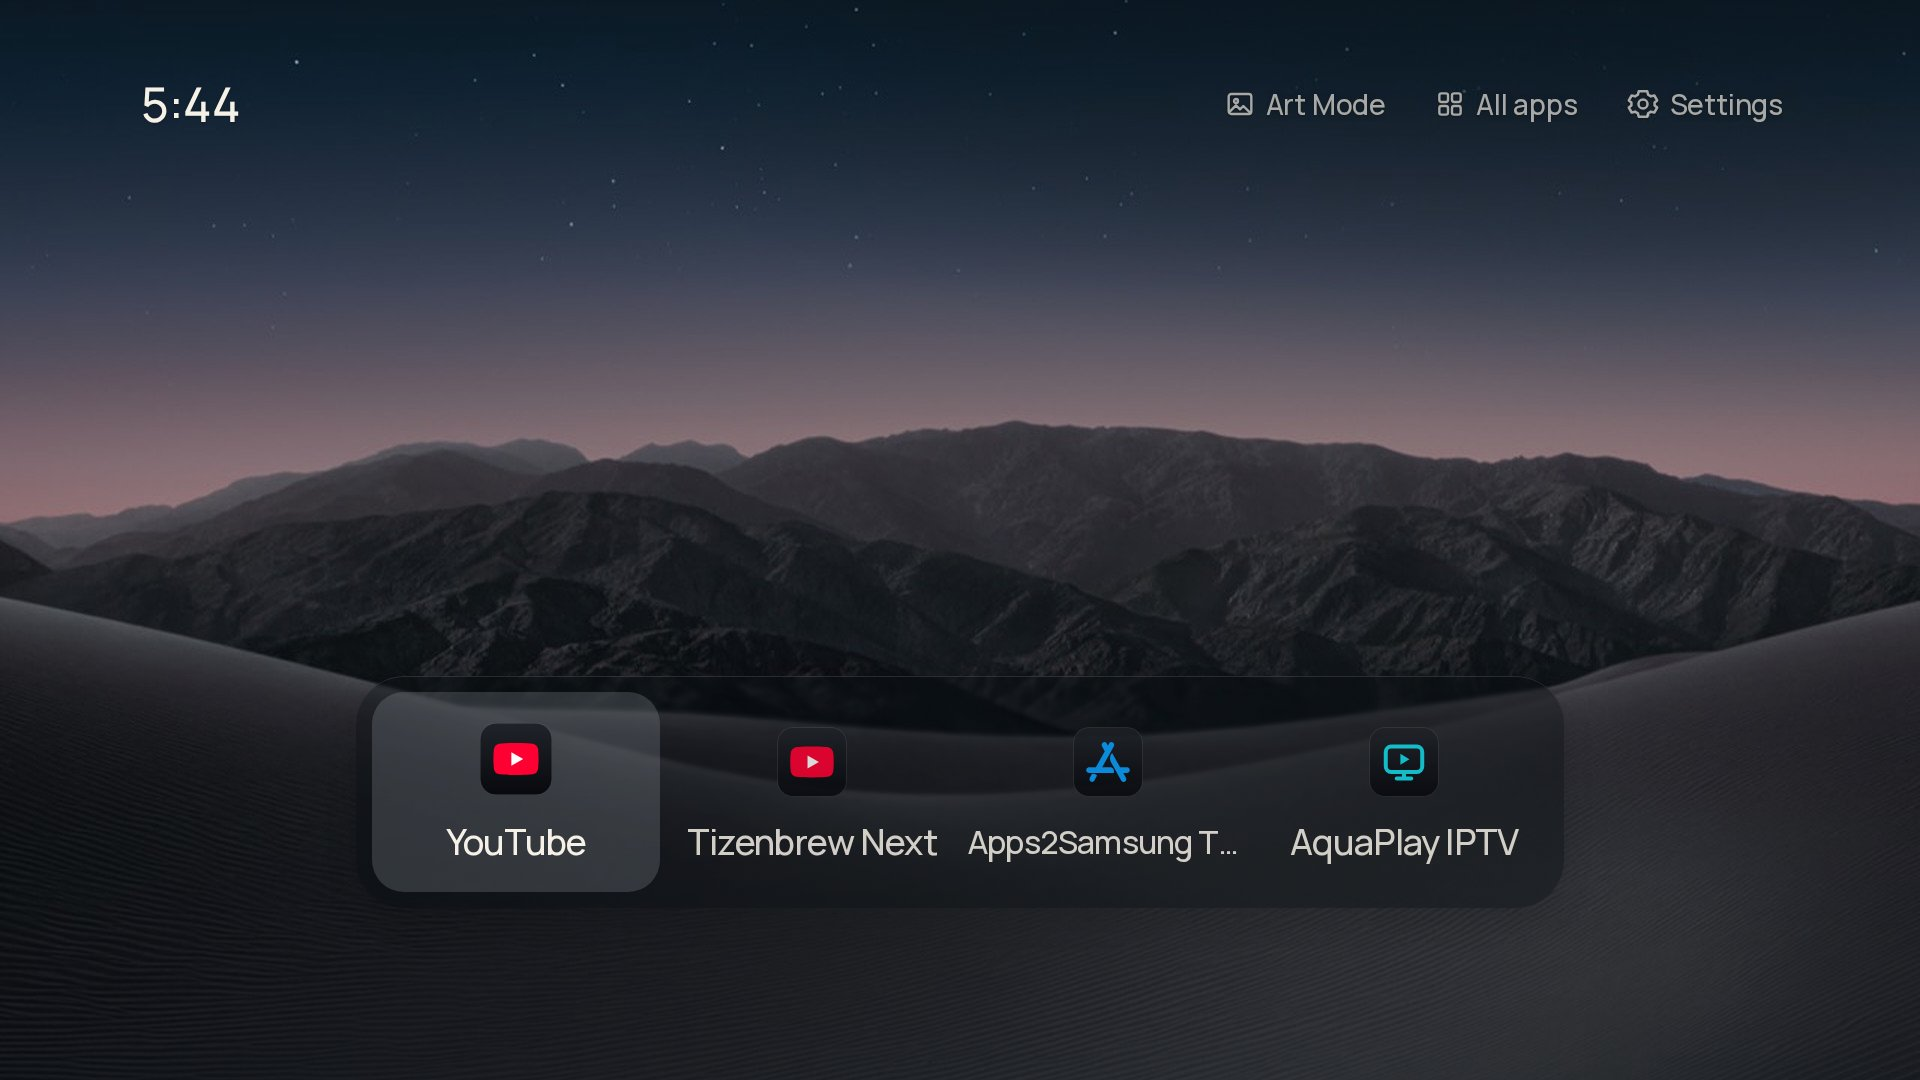
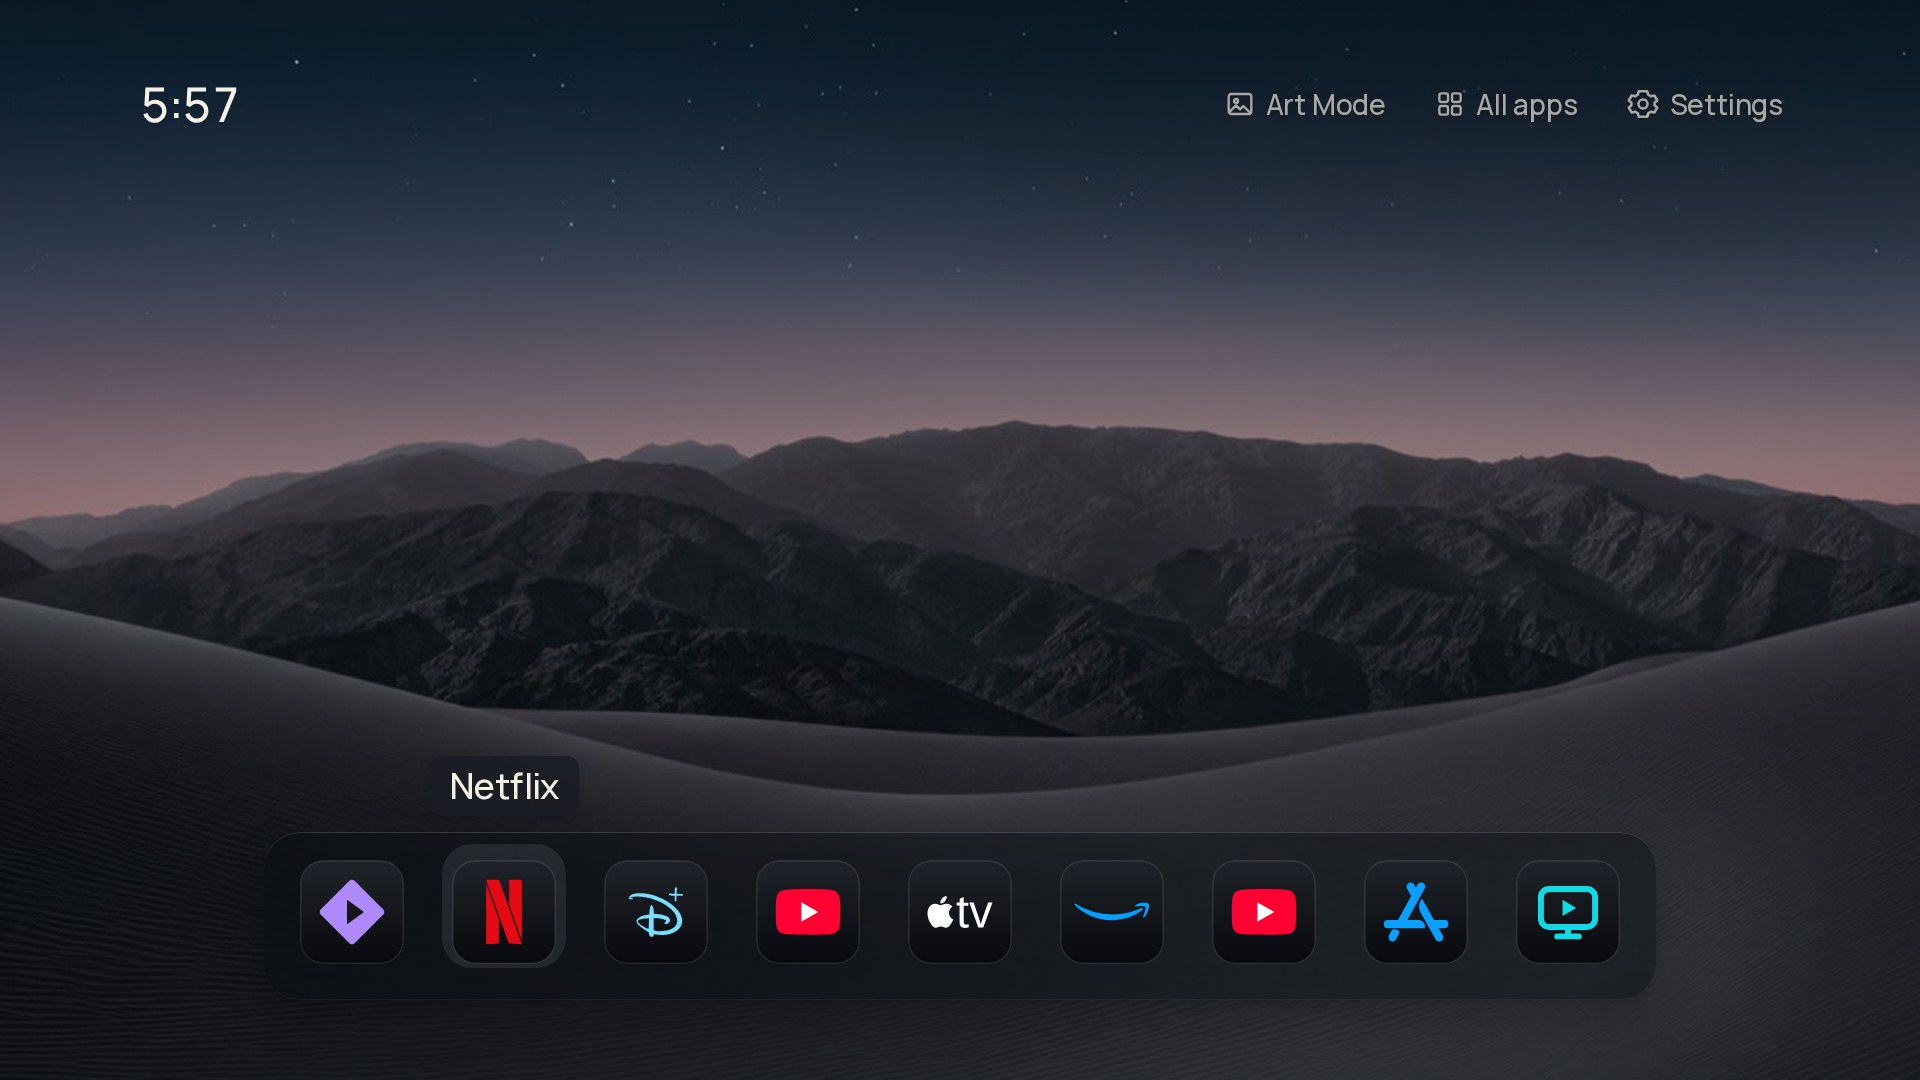
Rework Dock as a compact macOS-inspired floating tray

diff --git a/app/main.js b/app/main.js
@@ -5,7 +5,7 @@
   /* ---------- Bundled data ---------- */
   var ASSETS = 'assets/', ICONS = ASSETS + 'icons/', WP = ASSETS + 'wallpapers/';
   var CAP = 9, SCRIM_Y = 560;
-  var DOCK_MODES = { both: { tw: 288, th: 200, pitch: 296 }, text: { tw: 288, th: 104, pitch: 296 }, icons: { tw: 176, th: 144, pitch: 184 } };
+  var DOCK_MODES = { both: { tw: 176, th: 172, pitch: 184 }, text: { tw: 244, th: 96, pitch: 252 }, icons: { tw: 144, th: 136, pitch: 152 } };
   var GRID_ROW = 240, GRID_COL = 344, COLS = 5;
   var ED_ROW = 80, ED_SEP = 56, ED_VIEW = 752;
   var PH_TOP = 220, PH_PITCH = 128, PH_FULL = 5, PH_HEIGHT = 944, PH_COMPACT_TOP = 144, PH_COMPACT_PITCH = 88, PH_COMPACT_VISIBLE = 9;
@@ -162,7 +162,7 @@
       opsz: serif ? role === 'display' ? 72 : role === 'clock' ? 48 : role === 'ui' && (!size || size === 28) ? 28 : 36 : 0 };
   }
   function measureFace(id, faces) {
-    var result = { roles: {}, digits: [], digitCell: 0 }, roles = { display: [88, 76, 56], clock: [48], primary: [30, 32, 34, 36, 40], ui: [28, 30, 48] };
+    var result = { roles: {}, digits: [], digitCell: 0 }, roles = { display: [88, 76, 56], clock: [48], primary: [24, 28, 30, 32, 34, 36, 40], ui: [28, 30, 48] };
     var face = id === 'newsreader' ? faces[0][0] : null, original = face ? face.variationSettings : '', r, widths, min, max;
     Object.keys(roles).forEach(function (role) {
       result.roles[role] = {};
@@ -274,8 +274,8 @@
     if (fontMetrics[id] && !fontMetrics[id].fallback) widthCache[key] = width;
     return width;
   }
-  function dockLabelSize(id) { return S.c.apps === 'text' ? (textWidth(app(id).name, 40, 600, -.8, 'primary') > 264 ? 34 : 40) : textWidth(app(id).name, 36, 500, -.8, 'primary') > 280 ? 32 : 36; }
-  function reducedDockLabel(id) { return S.c.apps !== 'icons' && dockLabelSize(id) === (S.c.apps === 'text' ? 34 : 32); }
+  function dockLabelSize(id) { return S.c.apps === 'text' ? (textWidth(app(id).name, 36, 600, -.6, 'primary') > 220 ? 30 : 36) : textWidth(app(id).name, 28, 500, -.4, 'primary') > 160 ? 24 : 28; }
+  function reducedDockLabel(id) { return S.c.apps !== 'icons' && dockLabelSize(id) === (S.c.apps === 'text' ? 30 : 24); }
   function actionWidth(text) { return clamp(Math.ceil(textWidth(text, 30, 500, -.3) + 40), 288, 400); }
   function photoLabel(id, compact) {
     var text = app(id).name, size = compact ? 56 : 88, limit = compact ? 640 : 992, width = textWidth(text, size, 600, -1.8, 'display');
@@ -1075,7 +1075,7 @@
   }
   function renderCaption(t, hs) {
     var html = '<span class="clock">' + clockHtml() + '</span>';
-    if (S.c.apps !== 'icons' && hs.items[hs.i] && (S.c.layout === 'list' ? photoLabel(hs.items[hs.i].id, false).size < 88 || photoLabel(hs.items[hs.i].id, false).ellipsis : hs.zone === 'apps' && reducedDockLabel(hs.items[hs.i].id))) html += '<span class="cap-line full-name">' + esc(app(hs.items[hs.i].id).name) + '</span>';
+    if (S.c.layout === 'list' && S.c.apps !== 'icons' && hs.items[hs.i] && (photoLabel(hs.items[hs.i].id, false).size < 88 || photoLabel(hs.items[hs.i].id, false).ellipsis)) html += '<span class="cap-line full-name">' + esc(app(hs.items[hs.i].id).name) + '</span>';
     setHTML(caption, html);
   }
 
@@ -1144,30 +1144,30 @@
     utPlates[utPlateIndex].className = 'ph-plate ut-lens is-current on-focus';
   }
   function renderAppFocusName(hs) {
-    var it = hs.items[hs.i], width, x, y, placement;
-    if (S.c.apps !== 'icons' || hs.mode !== 'browse' || hs.zone !== 'apps' || !it) { appFocusName.className = 'app-focus-name'; return; }
+    var it = hs.items[hs.i], width, x, y, placement, dockLabel = S.c.layout === 'dock' && it && (S.c.apps === 'icons' || reducedDockLabel(it.id));
+    if ((!dockLabel && S.c.apps !== 'icons') || hs.mode !== 'browse' || hs.zone !== 'apps' || !it) { appFocusName.className = 'app-focus-name'; return; }
     appFocusName.textContent = app(it.id).name;
-    width = Math.min(S.c.layout === 'list' ? 1056 : 1640, Math.ceil(textWidth(app(it.id).name, S.c.layout === 'list' ? 40 : 36, 500, -.6, 'primary') + 8));
+    width = Math.min(S.c.layout === 'list' ? 1056 : 1640, Math.ceil(textWidth(app(it.id).name, S.c.layout === 'list' ? 40 : 36, 500, -.6, 'primary') + (S.c.layout === 'dock' ? 40 : 8)));
     appFocusName.style.width = width + 'px';
     if (S.c.layout === 'list') {
       x = 280; placement = phFields[photoPlateIndex]._placement;
       y = placement.y + placement.height / 2 - 24;
     } else {
-      x = clamp(dockAnchorCenter - width / 2, 140, 1780 - width); y = 932;
+      x = clamp(dockAnchorCenter - width / 2, 140, 1780 - width); y = parseFloat(dock.style.top) - 76;
     }
     appFocusName.style.left = x + 'px'; appFocusName.style.top = (y + fontShift('primary', S.c.layout === 'list' ? 40 : 36)) + 'px';
     appFocusName.className = 'app-focus-name is-on';
   }
 
   function dockGeom(n) {
-    var m = DOCK_MODES[S.c.apps], vis = Math.max(1, Math.min(5, n)), shelfW = vis * m.pitch - 8, w = shelfW + 32;
-    var broad = S.geom === 'broad' && n > 5;
+    var m = DOCK_MODES[S.c.apps], vis = Math.max(1, Math.min(Math.floor(1696 / m.pitch), n)), shelfW = vis * m.pitch - 8, w = shelfW + 32;
+    var broad = S.geom === 'broad' && n > vis;
     if (n < 0) { w = 912; shelfW = 880; }
     else if (broad) { w = 1728; shelfW = 1696; }
-    return { x: Math.round((1920 - w) / 2), y: 908 - m.th - 32, h: m.th + 32, w: w, shelf: shelfW, vis: vis, broad: broad, empty: n < 0, tw: m.tw, th: m.th, pitch: m.pitch };
+    return { x: Math.round((1920 - w) / 2), y: 1000 - m.th - 32, h: m.th + 32, w: w, shelf: shelfW, vis: vis, broad: broad, empty: n < 0, tw: m.tw, th: m.th, pitch: m.pitch };
   }
-  /* Five centred: the window moves one tile when focus passes an edge. Broad: keep a
-     148px glimpse of the neighbour, as the current dock does. */
+  /* Size the tray to its contents. Text-heavy rows that overflow keep a glimpse
+     of the next app and scroll with remote focus. */
   function dockOffset(n, i, g) {
     var off, left, first, glimpse = g.tw / 2;
     if (g.broad) {
@@ -1188,8 +1188,8 @@
     var a, body;
     if (it.kind === 'add') return '<span class="add">' + icon('plus') + '</span><span class="label">' + (full ? 'Home is full' : 'Add app') + '</span>';
     a = app(it.id);
-    body = S.c.apps === 'text' ? '' : appMark(a, S.c.apps === 'icons' ? 136 : 120, S.c.apps === 'icons' ? 88 : 72, S.c.apps === 'icons' ? 72 : 58);
-    return body + (S.c.apps === 'icons' ? '' : '<span class="label" style="font-size:' + dockLabelSize(a.id) + 'px;top:' + ((S.c.apps === 'text' ? 28 : 128) + fontShift('primary', dockLabelSize(a.id))) + 'px"><span class="label-ink">' + esc(a.name) + '</span></span>') + '<span class="nudge nudge-l">' + icon('left') + '</span><span class="nudge nudge-r">' + icon('right') + '</span>';
+    body = S.c.apps === 'text' ? '' : appMark(a, 104, 104, 88);
+    return body + (S.c.apps === 'icons' ? '' : '<span class="label" style="font-size:' + dockLabelSize(a.id) + 'px;top:' + ((S.c.apps === 'text' ? 24 : 126) + fontShift('primary', dockLabelSize(a.id))) + 'px"><span class="label-ink">' + esc(a.name) + '</span></span>') + '<span class="nudge nudge-l">' + icon('left') + '</span><span class="nudge nudge-r">' + icon('right') + '</span>';
   }
   /* A wide label can reach the shelf before its icon. Check the rendered icon box,
      including during the track's 180ms transition, so both disappear together. */

diff --git a/app/style.css b/app/style.css
@@ -644,3 +644,23 @@ html,body{width:100%;height:100%;overflow:hidden;background:#000}
 .bg-photo .dock .mat::before{display:none}
 .bg-photo .dock .mat::after{border-radius:inherit;box-shadow:inset 0 1px 0 rgba(255,255,255,.12)}
 .bg-photo .dock .plate.on-focus,.bg-photo.db-quiet .dock .plate.on-focus{background:rgba(172,180,191,.22);box-shadow:none}
+
+/* Compact floating Dock: larger app artwork and content-sized geometry. */
+.dock .mat{border-radius:36px}
+.bg-photo .dock .mat{background:rgba(30,34,42,.14);box-shadow:0 18px 44px rgba(0,0,0,.20),0 3px 10px rgba(0,0,0,.09)}
+.bg-photo .dock .mat-img{opacity:.72}
+.bg-photo .dock .mat::after{box-shadow:inset 0 1px 0 rgba(255,255,255,.16),inset 0 -1px 0 rgba(255,255,255,.05)}
+.dock .tile{border-radius:28px}
+.dock .tile .mark{left:calc((var(--tile-w) - 104px)/2);top:12px}
+.dock .tile .label{font-size:28px;line-height:36px;letter-spacing:-.4px}
+.dock .tile.is-focus .mark,.dock .tile.is-lifted .mark{transform:translateY(-6px) scale(1.10)}
+.dock .tile .mark.app-icon{opacity:1}
+.dock .plate{left:calc((var(--tile-w) - 124px)/2);top:12px;width:124px;height:124px;border-radius:30px}
+.bg-photo .dock .plate.on-focus,.bg-photo.db-quiet .dock .plate.on-focus{background:rgba(172,180,191,.13);box-shadow:none}
+.a-text .dock .plate{left:0;top:16px;width:var(--tile-w);height:var(--tile-h);border-radius:24px}
+.dock .tile .add{left:calc((var(--tile-w) - 56px)/2);top:32px}
+.l-dock .app-focus-name{padding:8px 20px;border-radius:12px;background:rgba(26,29,35,.88);color:#f6f1e7;font-size:36px;line-height:44px;text-shadow:none;box-shadow:0 4px 14px rgba(0,0,0,.12)}
+.bg-dark .dock .mat,.bg-light .dock .mat{display:block}
+.bg-dark .dock .mat{background:rgba(255,255,255,.055);box-shadow:inset 0 1px 0 rgba(255,255,255,.09),0 14px 40px rgba(0,0,0,.18)}
+.bg-light .dock .mat{background:rgba(255,255,255,.52);box-shadow:inset 0 1px 0 rgba(255,255,255,.65),0 8px 30px rgba(0,0,0,.08)}
+.bg-dark .dock .mat-img,.bg-light .dock .mat-img,.bg-dark .dock .mat-scrim,.bg-light .dock .mat-scrim,.bg-dark .dock .mat-veil,.bg-light .dock .mat-veil{display:none}

diff --git a/docs/interaction-behaviour.md b/docs/interaction-behaviour.md
@@ -2,7 +2,7 @@
 
 ## Home
 
-- Dock: Left/Right scrolls the apps without wrapping. Up enters the top-right controls, starting with Art Mode or the last selected control. Left/Right moves between Art Mode, All apps and Settings. Down or Back returns to the selected app. The clock is at the top left.
+- Dock: A compact floating tray fits up to nine app icons. Icons mode reveals the focused name above the tray; Both adds small labels below each icon, and Text remains available. Left/Right moves through the apps without wrapping, scrolling when a text row overflows. Up enters the top-right controls, starting with Art Mode or the last selected control. Left/Right moves between Art Mode, All apps and Settings. Down or Back returns to the selected app. The clock is at the top left.
 - List: Up/Down scrolls the apps without wrapping. Right enters the bottom-right controls, aligned with the clock above. Up/Down moves between Art Mode, All apps and Settings. Left or Back returns to the selected app. The list fades at both ends as it scrolls.
 - OK opens the selected item. Focus alone never launches an app.
 - Icons-only apps and controls reveal their names when focused. App presentation and control presentation are independent.

diff --git a/README.md b/README.md
@@ -30,6 +30,7 @@ The public preview uses the included Manrope, Geist and Newsreader fonts.
 - Choose a List or Dock layout, with icons, names or both.
 - Use a photograph, light or dark background, with a simple 12-hour clock.
 - Adjust typography, focus and glass materials through the same Settings interface.
+- Use a compact floating Dock with optional labels and White, Light or Dark icon appearance.
 - Choose and reorder Home apps; discover installed apps on the TV.
 - Select from sixteen wallpapers and save your preferences locally.
 
